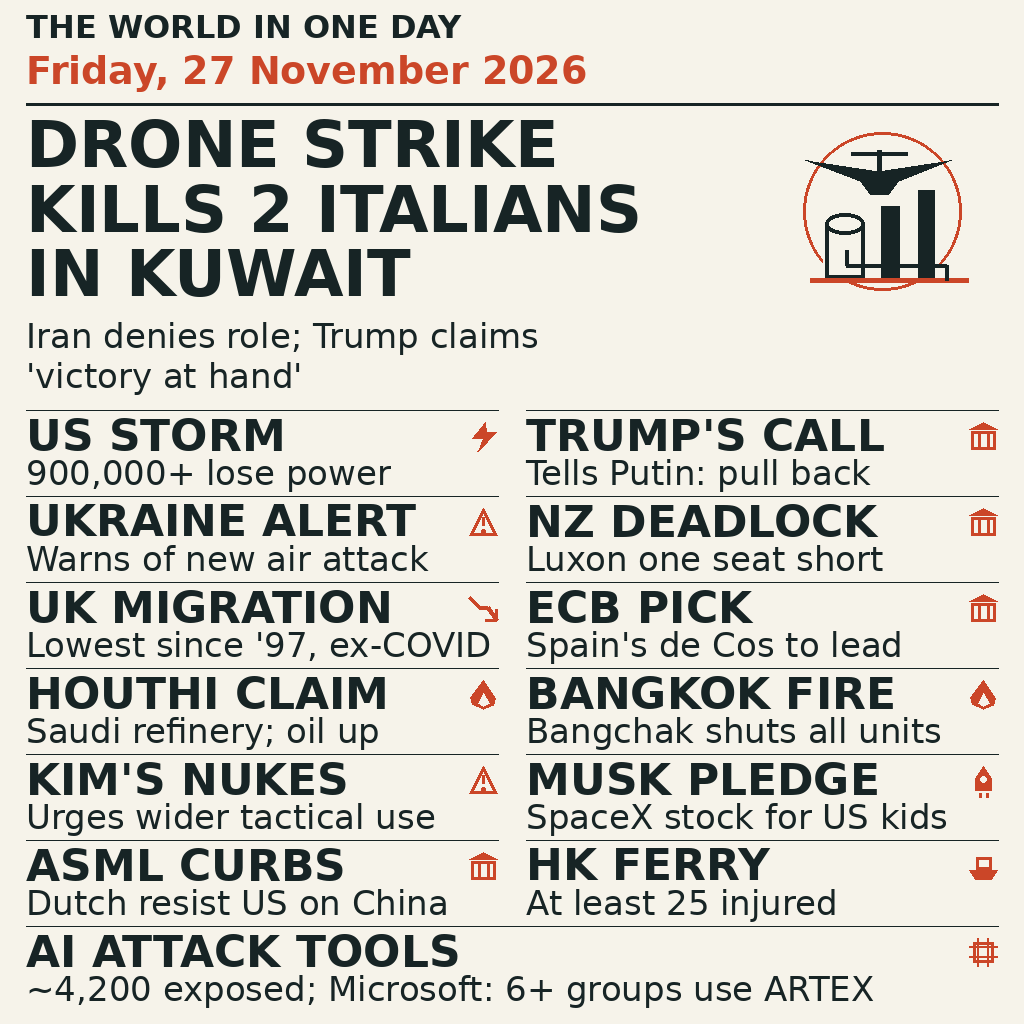
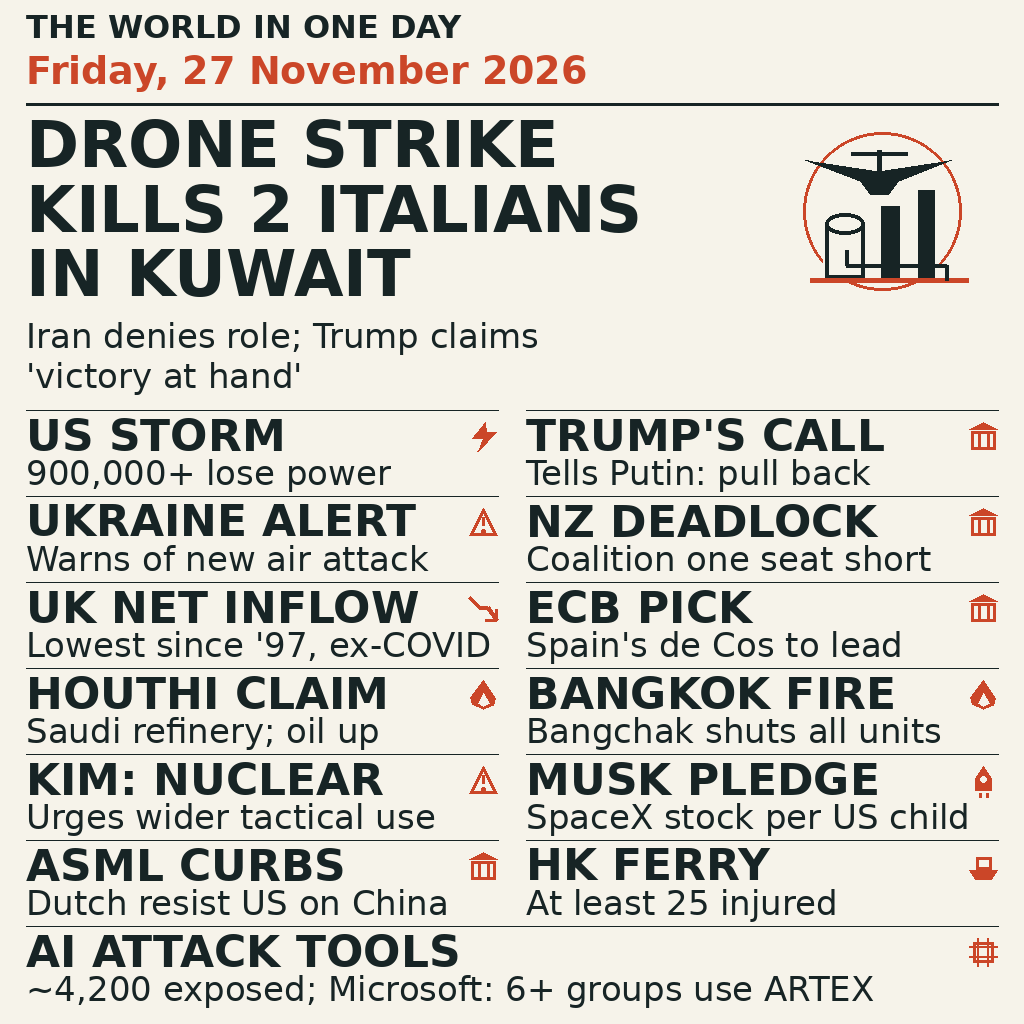
clarify four cards after 300px review

diff --git a/render.py b/render.py
@@ -89,13 +89,13 @@ stories = [
     ("US STORM", "900,000+ lose power", "storm"),
     ("TRUMP'S CALL", "Tells Putin: pull back", "trump"),
     ("UKRAINE ALERT", "Warns of new air attack", "ukraine"),
-    ("NZ DEADLOCK", "Luxon one seat short", "nz"),
-    ("UK MIGRATION", "Lowest since '97, ex-COVID", "uk"),
+    ("NZ DEADLOCK", "Coalition one seat short", "nz"),
+    ("UK NET INFLOW", "Lowest since '97, ex-COVID", "uk"),
     ("ECB PICK", "Spain's de Cos to lead", "ecb"),
     ("HOUTHI CLAIM", "Saudi refinery; oil up", "houthi"),
     ("BANGKOK FIRE", "Bangchak shuts all units", "bangkok"),
-    ("KIM'S NUKES", "Urges wider tactical use", "kim"),
-    ("MUSK PLEDGE", "SpaceX stock for US kids", "musk"),
+    ("KIM: NUCLEAR", "Urges wider tactical use", "kim"),
+    ("MUSK PLEDGE", "SpaceX stock per US child", "musk"),
     ("ASML CURBS", "Dutch resist US on China", "asml"),
     ("HK FERRY", "At least 25 injured", "ferry"),
     ("AI ATTACK TOOLS", "~4,200 exposed; Microsoft: 6+ groups use ARTEX", "ai"),
